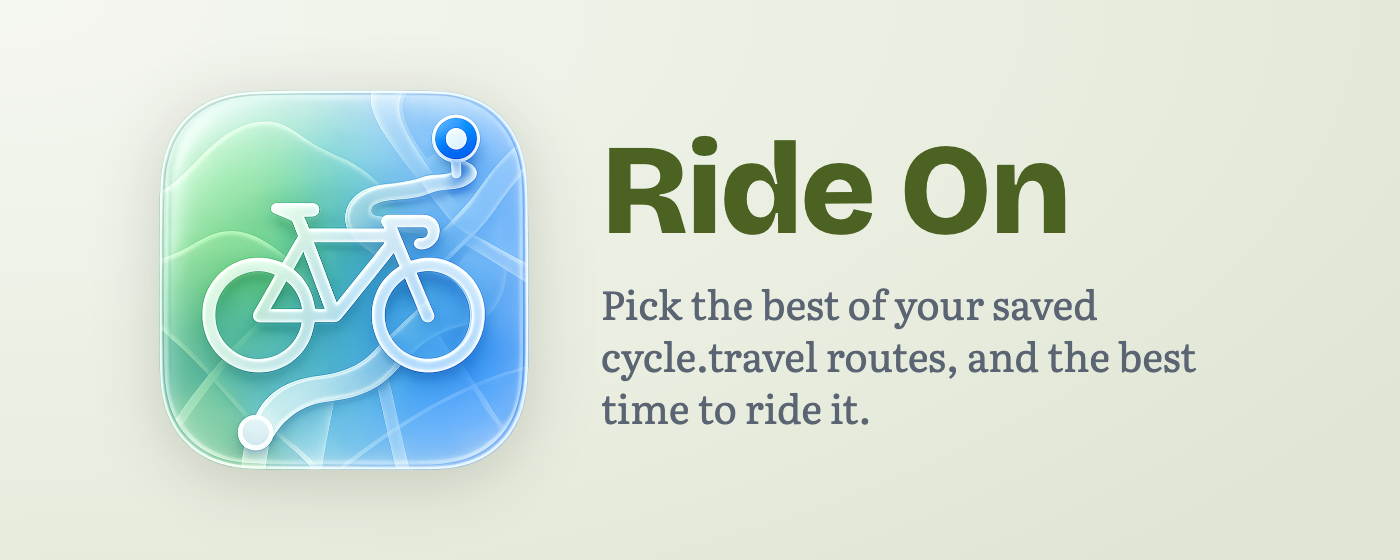
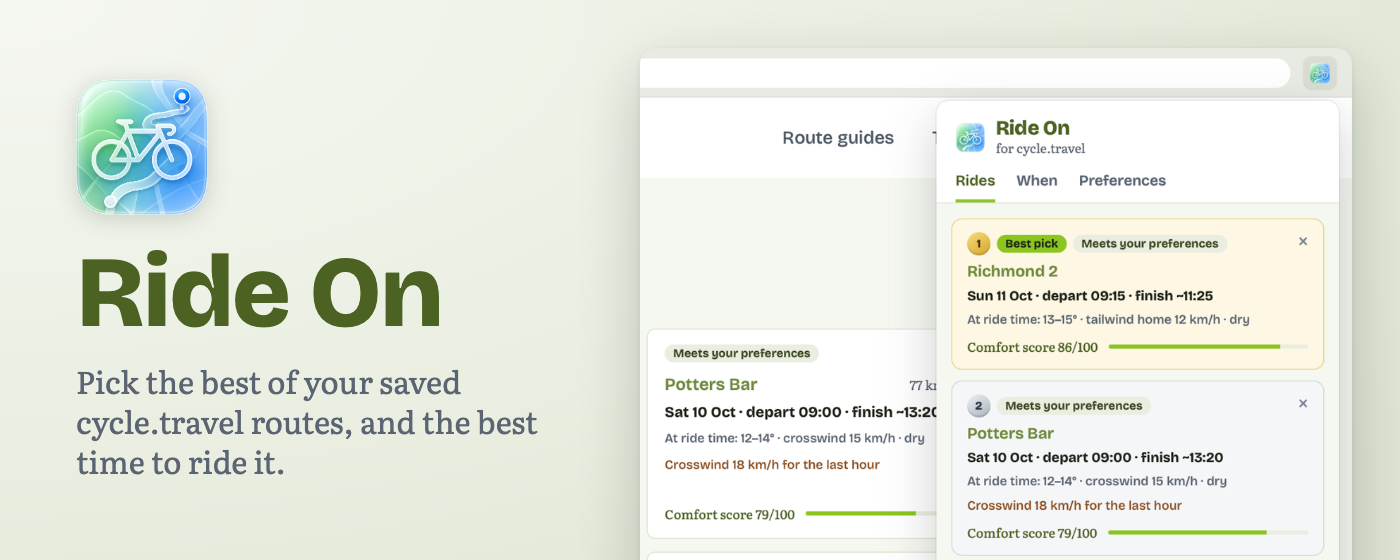
Add store screenshot and mock-based marquee tile

diff --git a/extension/STORE.md b/extension/STORE.md
@@ -44,15 +44,13 @@ That zip is built with `STORE_BUILD=1`, so it has no manifest `key` (the store r
 | Asset | Size | Required | Source |
 | --- | --- | --- | --- |
 | Store icon | 128×128 (96×96 artwork, 16px transparent padding) | yes | `store/icon-128.png` |
-| Screenshots | 1280×800 (1–5) | at least 1 | Popup over the Journeys page, synthetic routes only |
+| Screenshots | 1280×800 (1–5) | at least 1 | `store/screenshot-1280x800.png` |
 | Small promo tile | 440×280 | yes | `store/promo-small-440x280.png` |
 | Marquee promo tile | 1400×560 | no | `store/promo-marquee-1400x560.png` |
 
-The icon and tiles are made from the app logo (`app/RideOn.icon`) with the extension's fonts and
-colours.
-
-`bun run test:e2e` saves popup and page screenshots with synthetic data to `test-results/`, a
-starting point for the screenshots. Don't use real journey names.
+The icon and small tile are made from the app logo (`app/RideOn.icon`) with the extension's fonts
+and colours. The screenshot and the marquee's right half come from a design mock of the popup over
+the Journeys page.
 
 ## Privacy practices
 
